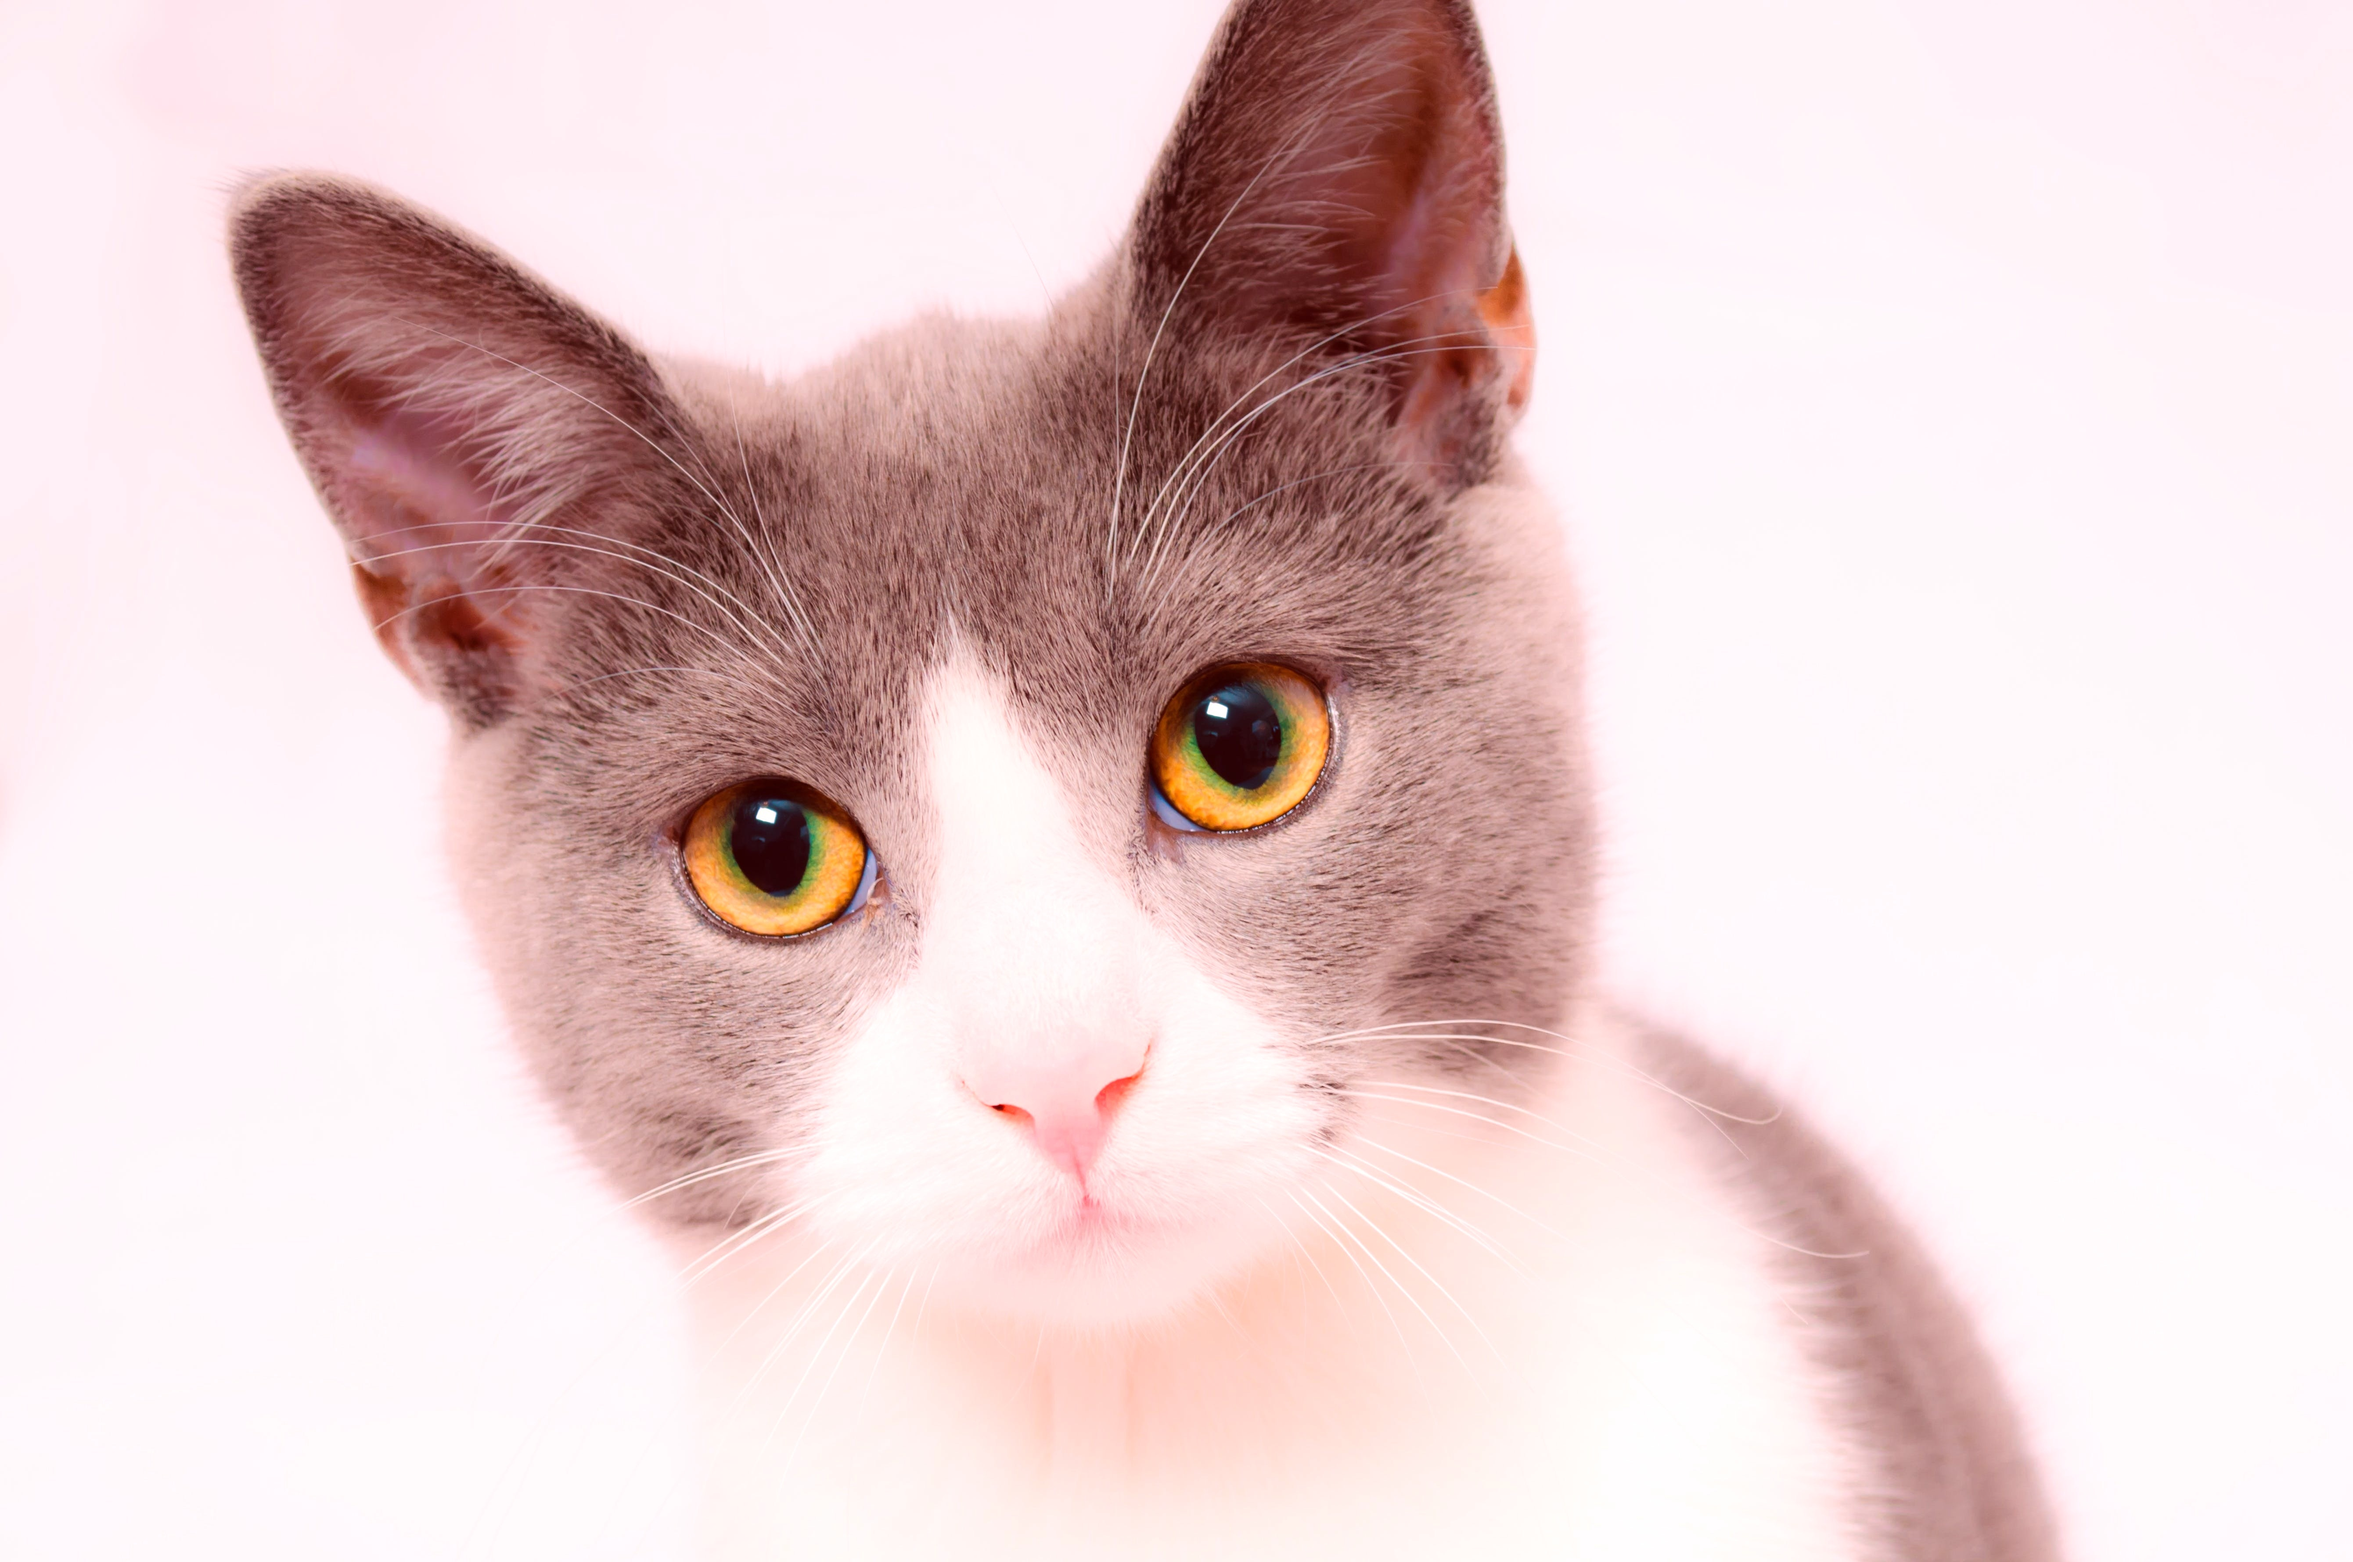
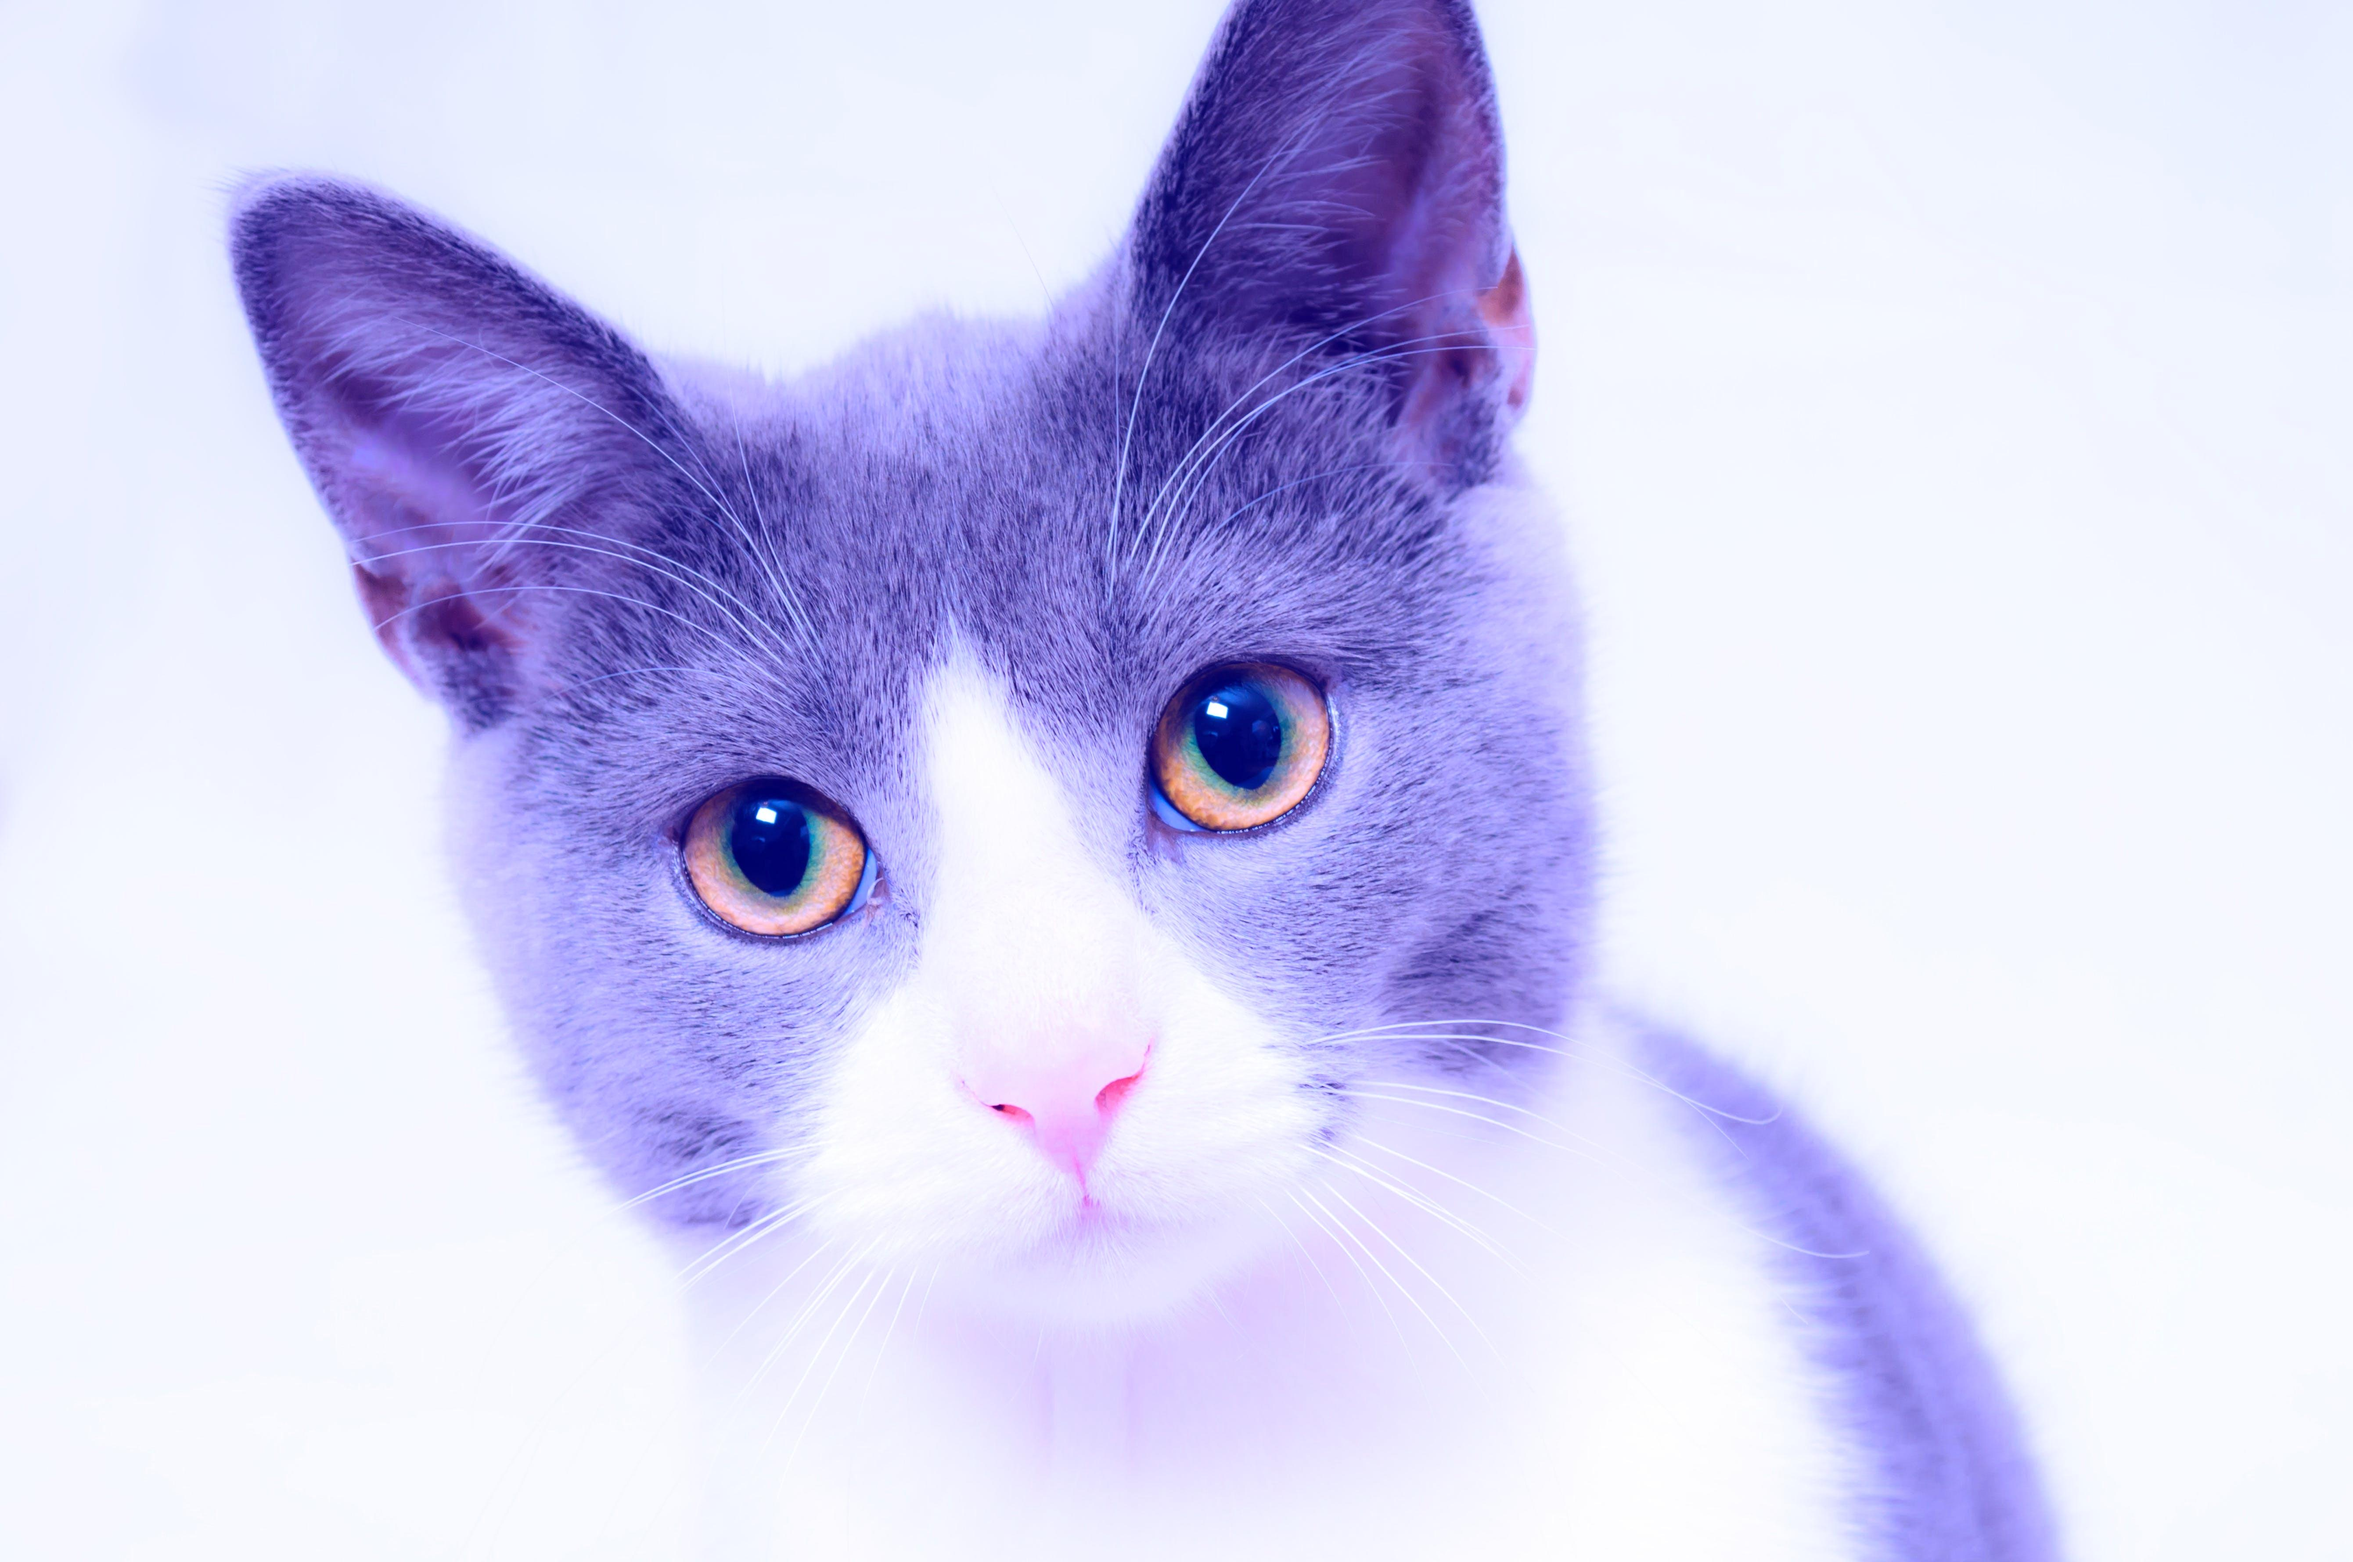
:memo: :heavy_plus_sign:  add note and add requirements.txt

diff --git a/README.md b/README.md
@@ -1,27 +1,33 @@
 # Image Temperature Adjuster
+
 ## Overview
+
 This tool is designed to adjust the temperature of JPEG images. By modifying the color balance, it can make images appear warmer or cooler.
 
 ## Technical Stack
+
 - Python: The primary programming language used.
 - Pillow (PIL fork): A Python Imaging Library used for opening, manipulating, and saving many different image file formats.
 - argparse: A Python module for parsing command-line arguments.
 
-## Goal 
+## Goal
+
 The primary goal of this tool is to provide an easy-to-use command-line interface for adjusting the color temperature of JPEG images. The approach involves manipulating the red and blue channels of the image to simulate a warmer or cooler temperature.
 
 ## Approach
+
 The core functionality is encapsulated in the adjust_temperature function, which alters the image's temperature by adjusting its color channels:
 
 ### Function adjust_temperature
+
 - Input: A PIL Image object and a temperature adjustment value.
 - Process:
-    1. RGB Conversion: Converts the image to RGB mode if not already in this mode.
-    2. Channel Splitting: Splits the image into its red, green, and blue components.
-    3. Temperature Adjustment:
-    4. Warm Adjustment: Increases the intensity of the red channel for a warmer image.
-    5. Cool Adjustment: Increases the intensity of the blue channel for a cooler image.
-    6. Channel Merging: Re-merges the adjusted channels to form the final image.
+  1. RGB Conversion: Converts the image to RGB mode if not already in this mode.
+  2. Channel Splitting: Splits the image into its red, green, and blue components.
+  3. Temperature Adjustment:
+  4. Warm Adjustment: Increases the intensity of the red channel for a warmer image.
+  5. Cool Adjustment: Increases the intensity of the blue channel for a cooler image.
+  6. Channel Merging: Re-merges the adjusted channels to form the final image.
 - Output: Returns the temperature-adjusted image.
 
 ## Installation 🙌👨💻🚀
@@ -31,35 +37,44 @@ The core functionality is encapsulated in the adjust_temperature function, which
 3. Install Conda (If you already installed Conda,skip this part) : Follow the instructions at [Conda installation guide](https://docs.conda.io/projects/conda/en/stable/user-guide/install/index.html).
 
 4. Create a Conda Environment:
+
 ```bash
 conda create --name image-temp-env python=3.x
 ```
+
 5. Activate the Environment:
+
 ```bash
 conda activate image-temp-env
 ```
+
 6. Install Requirements:
+
 ```bash
 pip install -r requirements.txt
 ```
 
 ## Usage
+
 Run the script with the following command:
 
 Command Format:
+
 ```bash
 python adjust_image_temperature.py <input_path> <output_path> <temperature>
 ```
 
 Example:
+
 ```bash
-python adjust_image_temperature.py input.jpeg output.jpeg -10
+python adjust_image_temperature.py input.jpeg output.jpeg -100
 ```
 
-* input_path: Path to the input JPEG image.
-* output_path: Path for saving the output JPEG image.
-* temperature: Temperature adjustment value (positive for warmer, negative for cooler).
+- input_path: Path to the input JPEG image.
+- output_path: Path for saving the output JPEG image.
+- temperature: Temperature adjustment value (positive for warmer, negative for cooler).
 
 ## Limitations
-* The script currently supports only JPEG images.
-* Extreme temperature values might lead to unnatural colors.
+
+- The script currently supports only JPEG images.
+- Extreme temperature values might lead to unnatural colors.
